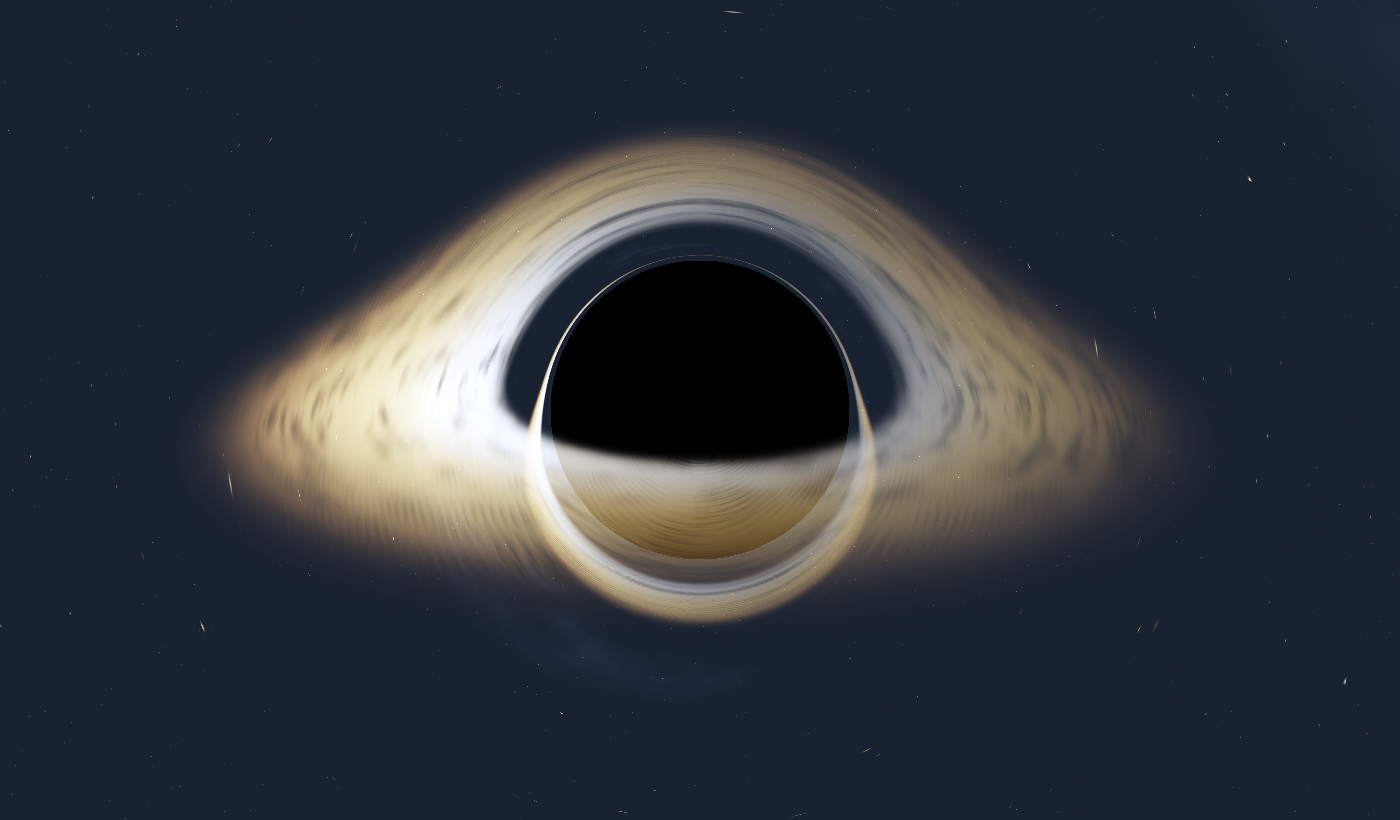
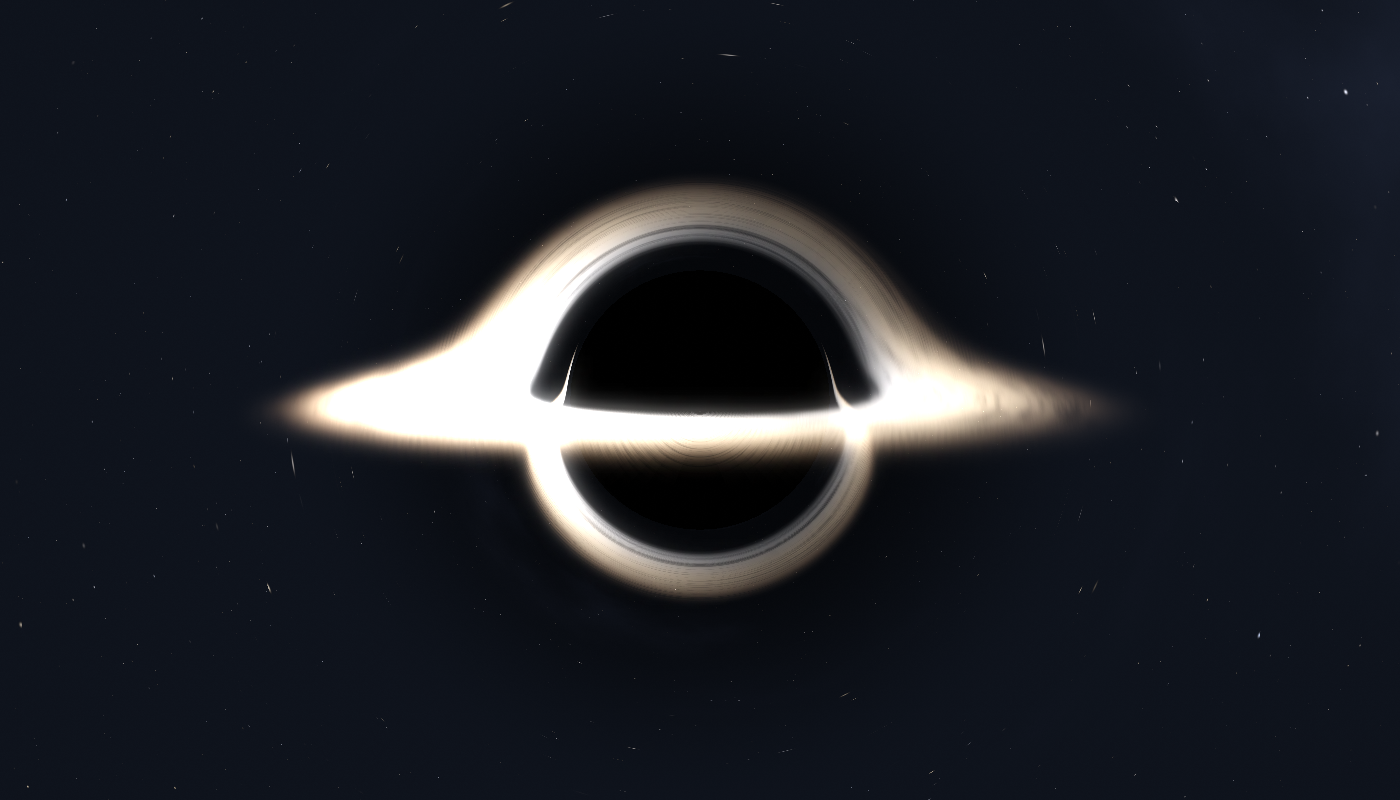
Add bloom, and make the hole read on light backgrounds
The disk is emissive and additive, so on a white desktop it added nothing and
disappeared, leaving an unconvincing black ball with a dull ring. Two changes:

Background light skimming the hole is now dimmed toward the shadow, giving the
disk something to be bright against. Lensing actually conserves surface
brightness, so this is a deliberate cheat, and it shares the warp's falloff so
both reach zero together rather than leaving a circular seam.

The disk also gets a real bloom pass. Emission is written to a second render
target so the glow is fed by the disk alone - an earlier single-target version
bloomed bright desktop content too, which haloed the whole screen white. Bright
pass and separable blur run at quarter resolution; the halo carries zero alpha
so it adds light over the desktop instead of occluding it.

Also thins the disk, flattens the inclination and cools the palette toward a
white-hot core with a copper rim. Full chain measures 14.9 ms/frame at
3024x1964, against 14.7 before.

diff --git a/EventHorizon/OverlayView.swift b/EventHorizon/OverlayView.swift
@@ -41,7 +41,18 @@ private struct Uniforms {
     var mixRight: Float = 1
 }
 
+private struct PostU {
+    var dstSize = SIMD2<Float>(1, 1)
+    var dir = SIMD2<Float>(0, 0)
+    var strength: Float = 0
+    var threshold: Float = 0
+    var pad0: Float = 0
+    var pad1: Float = 0
+}
+
 private let BC: Float = 2.598076   // photon capture impact parameter / rs
+/// Bloom runs at a quarter of the drawable's linear size.
+private let bloomDiv = 4
 
 final class OverlayView: NSView {
 
@@ -53,8 +64,15 @@ final class OverlayView: NSView {
     private let device = MTLCreateSystemDefaultDevice()
     private var queue: MTLCommandQueue?
     private var pipeline: MTLRenderPipelineState?
+    private var brightPipe: MTLRenderPipelineState?
+    private var blurPipe: MTLRenderPipelineState?
+    private var compositePipe: MTLRenderPipelineState?
     private var metalLayer: CAMetalLayer?
     private var blank: MTLTexture?
+    private var sceneTex: MTLTexture?
+    private var glowTex: MTLTexture?
+    private var bloomA: MTLTexture?
+    private var bloomB: MTLTexture?
     private var start = CACurrentMediaTime()
 
     override init(frame: NSRect) {
@@ -89,14 +107,24 @@ final class OverlayView: NSView {
             let d = MTLRenderPipelineDescriptor()
             d.vertexFunction = lib.makeFunction(name: "vsMain")
             d.fragmentFunction = lib.makeFunction(name: "fsMain")
-            let att = d.colorAttachments[0]!
-            att.pixelFormat = .bgra8Unorm
-            att.isBlendingEnabled = true          // premultiplied source
-            att.sourceRGBBlendFactor = .one
-            att.sourceAlphaBlendFactor = .one
-            att.destinationRGBBlendFactor = .oneMinusSourceAlpha
-            att.destinationAlphaBlendFactor = .oneMinusSourceAlpha
+            // The scene now renders into a texture rather than straight to the
+            // drawable, so the glow pass has something to read.
+            d.colorAttachments[0].pixelFormat = .bgra8Unorm
+            d.colorAttachments[1].pixelFormat = .bgra8Unorm   // glow source only
             pipeline = try device.makeRenderPipelineState(descriptor: d)
+
+            for (name, slot) in [("fsBright", 0), ("fsBlur", 1), ("fsComposite", 2)] {
+                let pp = MTLRenderPipelineDescriptor()
+                pp.vertexFunction = lib.makeFunction(name: "vsPost")
+                pp.fragmentFunction = lib.makeFunction(name: name)
+                pp.colorAttachments[0].pixelFormat = .bgra8Unorm
+                let st = try device.makeRenderPipelineState(descriptor: pp)
+                switch slot {
+                case 0: brightPipe = st
+                case 1: blurPipe = st
+                default: compositePipe = st
+                }
+            }
         } catch {
             NSLog("EventHorizon: shader build failed: \(error)")
         }
@@ -118,6 +146,24 @@ final class OverlayView: NSView {
         l.contentsScale = s
         guard bounds.width > 0, bounds.height > 0 else { return }
         l.drawableSize = CGSize(width: bounds.width * s, height: bounds.height * s)
+        allocateTargets(Int(l.drawableSize.width), Int(l.drawableSize.height))
+    }
+
+    private func allocateTargets(_ w: Int, _ h: Int) {
+        guard let device, w > 0, h > 0 else { return }
+        if sceneTex?.width == w && sceneTex?.height == h { return }
+
+        func make(_ tw: Int, _ th: Int) -> MTLTexture? {
+            let d = MTLTextureDescriptor.texture2DDescriptor(
+                pixelFormat: .bgra8Unorm, width: max(tw, 1), height: max(th, 1), mipmapped: false)
+            d.usage = [.renderTarget, .shaderRead]
+            d.storageMode = .private
+            return device.makeTexture(descriptor: d)
+        }
+        sceneTex = make(w, h)
+        glowTex = make(w, h)
+        bloomA = make(w / bloomDiv, h / bloomDiv)
+        bloomB = make(w / bloomDiv, h / bloomDiv)
     }
 
     func resetClock() { start = CACurrentMediaTime() }
@@ -155,7 +201,7 @@ final class OverlayView: NSView {
         let shadowPx = max(Float(arc.holePoints) * scale, 2)
         u.pxPerUnit = shadowPx * u.camDist / BC
         u.warpReach = max(Float(arc.warpPoints) * scale, shadowPx * 1.5)
-        u.incl = 0.155 + 0.10 * sin(t * 0.047 + 0.9)
+        u.incl = 0.105 + 0.065 * sin(t * 0.047 + 0.9)
         u.roll = 0.30 * sin(t * 0.020 + phase)
         u.fade = arc.fade
         u.swirl = arc.swirl
@@ -167,18 +213,68 @@ final class OverlayView: NSView {
         u.mixLeft = haveDesktop ? arc.mixLeft : 0
         u.mixRight = haveDesktop ? arc.mixRight : 0
 
-        let pass = MTLRenderPassDescriptor()
-        pass.colorAttachments[0].texture = drawable.texture
-        pass.colorAttachments[0].loadAction = .clear
-        pass.colorAttachments[0].storeAction = .store
-        pass.colorAttachments[0].clearColor = MTLClearColorMake(0, 0, 0, 0)
+        allocateTargets(Int(l.drawableSize.width), Int(l.drawableSize.height))
+        guard let sceneTex, let glowTex, let bloomA, let bloomB,
+              let brightPipe, let blurPipe, let compositePipe else { return }
 
-        guard let enc = cb.makeRenderCommandEncoder(descriptor: pass) else { return }
-        enc.setRenderPipelineState(pipeline)
-        enc.setFragmentBytes(&u, length: MemoryLayout<Uniforms>.stride, index: 0)
-        enc.setFragmentTexture(tex ?? blank, index: 0)
-        enc.drawPrimitives(type: .triangle, vertexStart: 0, vertexCount: 3)
-        enc.endEncoding()
+        func pass(_ target: MTLTexture, _ state: MTLRenderPipelineState,
+                  second: MTLTexture? = nil,
+                  _ body: (MTLRenderCommandEncoder) -> Void) {
+            let rp = MTLRenderPassDescriptor()
+            rp.colorAttachments[0].texture = target
+            rp.colorAttachments[0].loadAction = .clear
+            rp.colorAttachments[0].storeAction = .store
+            rp.colorAttachments[0].clearColor = MTLClearColorMake(0, 0, 0, 0)
+            if let second {
+                rp.colorAttachments[1].texture = second
+                rp.colorAttachments[1].loadAction = .clear
+                rp.colorAttachments[1].storeAction = .store
+                rp.colorAttachments[1].clearColor = MTLClearColorMake(0, 0, 0, 0)
+            }
+            guard let enc = cb.makeRenderCommandEncoder(descriptor: rp) else { return }
+            enc.setRenderPipelineState(state)
+            body(enc)
+            enc.drawPrimitives(type: .triangle, vertexStart: 0, vertexCount: 3)
+            enc.endEncoding()
+        }
+
+        // 1. The scene, plus the disk's emission on its own target.
+        pass(sceneTex, pipeline, second: glowTex) { enc in
+            enc.setFragmentBytes(&u, length: MemoryLayout<Uniforms>.stride, index: 0)
+            enc.setFragmentTexture(tex ?? self.blank, index: 0)
+        }
+
+        let bw = Float(bloomA.width), bh = Float(bloomA.height)
+        var post = PostU()
+        post.dstSize = SIMD2(bw, bh)
+        post.threshold = 0.30
+
+        // 2. Bright pass over the emission alone, so a white desktop never glows.
+        pass(bloomA, brightPipe) { enc in
+            enc.setFragmentBytes(&post, length: MemoryLayout<PostU>.stride, index: 0)
+            enc.setFragmentTexture(glowTex, index: 0)
+        }
+        // 3-4. Separable Gaussian.
+        var hor = post; hor.dir = SIMD2(1.6, 0)
+        pass(bloomB, blurPipe) { enc in
+            enc.setFragmentBytes(&hor, length: MemoryLayout<PostU>.stride, index: 0)
+            enc.setFragmentTexture(bloomA, index: 0)
+        }
+        var ver = post; ver.dir = SIMD2(0, 1.6)
+        pass(bloomA, blurPipe) { enc in
+            enc.setFragmentBytes(&ver, length: MemoryLayout<PostU>.stride, index: 0)
+            enc.setFragmentTexture(bloomB, index: 0)
+        }
+
+        // 5. Scene plus halo, to the drawable.
+        var comp = PostU()
+        comp.dstSize = SIMD2(dw, dh)
+        comp.strength = 1.7
+        pass(drawable.texture, compositePipe) { enc in
+            enc.setFragmentBytes(&comp, length: MemoryLayout<PostU>.stride, index: 0)
+            enc.setFragmentTexture(sceneTex, index: 0)
+            enc.setFragmentTexture(bloomA, index: 1)
+        }
 
         cb.present(drawable)
         cb.commit()

diff --git a/EventHorizon/Shaders.swift b/EventHorizon/Shaders.swift
@@ -92,10 +92,10 @@ static inline float diskTurb(float r, float a, float z,
 
 // Warm blackbody ramp: cool red at the rim, white hot at the inner edge.
 static inline float3 diskColor(float t) {
-    float3 c = mix(float3(0.30, 0.045, 0.008), float3(1.0, 0.30, 0.035),
+    float3 c = mix(float3(0.26, 0.085, 0.035), float3(0.95, 0.44, 0.17),
                    smoothstep(0.00, 0.38, t));
-    c = mix(c, float3(1.0, 0.72, 0.34), smoothstep(0.34, 0.68, t));
-    c = mix(c, float3(1.0, 0.96, 0.90), smoothstep(0.66, 1.0, t));
+    c = mix(c, float3(1.0, 0.82, 0.62), smoothstep(0.34, 0.68, t));
+    c = mix(c, float3(1.0, 0.98, 0.98), smoothstep(0.66, 1.0, t));
     return c;
 }
 
@@ -117,8 +117,8 @@ static inline float3 starfield(float3 d) {
         }
     }
     float n = fbm(d * 2.6 + 11.0);
-    col += pow(max(n - 0.54, 0.0), 2.0) * float3(0.10, 0.15, 0.34) * 1.9;
-    col += float3(0.010, 0.019, 0.042);          // faint ambient, not flat black
+    col += pow(max(n - 0.54, 0.0), 2.0) * float3(0.10, 0.15, 0.34) * 1.1;
+    col += float3(0.0030, 0.0055, 0.0130);       // faint ambient, not flat black
     return col * 0.6;
 }
 
@@ -132,7 +132,12 @@ static inline float3 aces(float3 x) {
     return saturate((x * (2.51 * x + 0.03)) / (x * (2.43 * x + 0.59) + 0.14));
 }
 
-fragment float4 fsMain(VOut vin [[stage_in]],
+struct FragOut {
+    float4 scene [[color(0)]];
+    float4 glow  [[color(1)]];
+};
+
+fragment FragOut fsMain(VOut vin [[stage_in]],
                        constant Uniforms &U [[buffer(0)]],
                        texture2d<float> screenTex [[texture(0)]]) {
     constexpr sampler smp(filter::linear, address::clamp_to_edge, coord::normalized);
@@ -150,6 +155,12 @@ fragment float4 fsMain(VOut vin [[stage_in]],
     // image. That is what makes it a three dimensional object crossing the
     // screen - the disk turns, foreshortens, and the Doppler-bright side swaps
     // - instead of a rigid picture sliding across.
+    // Distance-based falloff, shared by the warp and the dimming below. Both
+    // must reach zero together or the overlay ends on a visible circular seam.
+    float rpx   = distance(capPx, U.holeCap);
+    float tt    = rpx / max(U.warpReach, 1.0);
+    float taper = exp(-2.6 * tt * tt * tt);
+
     float2 centrePx = U.capSize * 0.5;
     float2 uv     = float2(capPx.x - centrePx.x, centrePx.y - capPx.y) / U.pxPerUnit;
     float2 holeUV = float2(U.holeCap.x - centrePx.x, centrePx.y - U.holeCap.y) / U.pxPerUnit;
@@ -223,7 +234,7 @@ fragment float4 fsMain(VOut vin [[stage_in]],
         // A thin plane crossing is what made it read as a flat painted ring.
         if (r > DISK_IN && r < DISK_OUT) {
             float hgt = abs(dot(p, N));
-            float hh  = 0.06 + 0.032 * r;          // flares outward
+            float hh  = 0.045 + 0.022 * r;          // flares outward
             if (hgt < hh) {
                 float q    = hgt / hh;
                 float vert = exp(-3.0 * q * q);
@@ -315,6 +326,11 @@ fragment float4 fsMain(VOut vin [[stage_in]],
         float3 sky = enc(starfield(lastDir));
         float3 desktop = screenTex.sample(smp, srcCapPx / U.capSize).rgb;
         bg = mix(sky, desktop, onScreen * dmix);
+        // Light that skims the hole is dimmed toward the shadow. Lensing really
+        // conserves surface brightness, so this is a deliberate cheat: the disk
+        // is emissive and additive, and against a white desktop it would add
+        // nothing and vanish. This gives it something to be bright against.
+        bg *= mix(1.0, 0.34, taper * (1.0 - smoothstep(BC * 1.05, BC * 3.0, b)));
     }
 
     float3 emit = enc(aces(acc * U.exposure));
@@ -332,6 +348,77 @@ fragment float4 fsMain(VOut vin [[stage_in]],
     a = saturate(a) * U.fade;
 
     col += (hash21(fragPx + fract(U.time) * 91.7) - 0.5) * 0.006;
-    return float4(max(col, 0.0) * a, a);   // premultiplied
+
+    FragOut o;
+    o.scene = float4(max(col, 0.0) * a, a);           // premultiplied
+    // Zero alpha: the halo is additive light over whatever is behind, and must
+    // not darken or occlude the desktop the way an alpha-carrying layer would.
+    o.glow = float4(emit * U.fade, 0.0);
+    return o;
+}
+
+// ---------------------------------------------------------------- bloom
+// The disk is the only thing bright enough to glow, and a real glow is what
+// separates this from a flat render. Bright-pass and blur run at quarter
+// resolution; everything stays premultiplied so the halo composites correctly
+// over the desktop.
+
+struct PostU {
+    float2 dstSize;
+    float2 dir;          // blur step, in destination pixels
+    float  strength;
+    float  threshold;
+    float  pad0;
+    float  pad1;
+};
+
+struct PostOut {
+    float4 pos [[position]];
+};
+
+vertex PostOut vsPost(uint vid [[vertex_id]]) {
+    float2 p[3] = { float2(-1.0, -3.0), float2(-1.0, 1.0), float2(3.0, 1.0) };
+    PostOut o;
+    o.pos = float4(p[vid], 0.0, 1.0);
+    return o;
+}
+
+fragment float4 fsBright(PostOut vin [[stage_in]],
+                         constant PostU &P [[buffer(0)]],
+                         texture2d<float> src [[texture(0)]]) {
+    constexpr sampler smp(filter::linear, address::clamp_to_edge, coord::normalized);
+    float2 uv = vin.pos.xy / P.dstSize;
+    float4 c = src.sample(smp, uv);
+    float lum = dot(c.rgb, float3(0.299, 0.587, 0.114));
+    float k = max(lum - P.threshold, 0.0) / max(lum, 1e-4);
+    return c * k;
+}
+
+fragment float4 fsBlur(PostOut vin [[stage_in]],
+                       constant PostU &P [[buffer(0)]],
+                       texture2d<float> src [[texture(0)]]) {
+    constexpr sampler smp(filter::linear, address::clamp_to_edge, coord::normalized);
+    float2 uv = vin.pos.xy / P.dstSize;
+    float2 d = P.dir / P.dstSize;
+    const float w[5] = { 0.227027, 0.194595, 0.121622, 0.054054, 0.016216 };
+    float4 sum = src.sample(smp, uv) * w[0];
+    for (int i = 1; i < 5; i++) {
+        sum += src.sample(smp, uv + d * float(i)) * w[i];
+        sum += src.sample(smp, uv - d * float(i)) * w[i];
+    }
+    return sum;
+}
+
+fragment float4 fsComposite(PostOut vin [[stage_in]],
+                            constant PostU &P [[buffer(0)]],
+                            texture2d<float> scene [[texture(0)]],
+                            texture2d<float> bloom [[texture(1)]]) {
+    constexpr sampler smp(filter::linear, address::clamp_to_edge, coord::normalized);
+    float2 uv = vin.pos.xy / P.dstSize;
+    float4 s = scene.sample(smp, uv);
+    float4 b = bloom.sample(smp, uv) * P.strength;
+    // Both are premultiplied, so the sum is too. The halo also carries alpha,
+    // or it would be invisible where the overlay is otherwise transparent.
+    return float4(saturate(s.rgb + b.rgb), saturate(s.a + b.a));
 }
 """

diff --git a/EventHorizon/README.md b/EventHorizon/README.md
@@ -124,6 +124,14 @@ levels out of 255; translating a sprite would give exactly zero.
 
 ![The same moment with the hole at three screen positions](../docs/parallax.png)
 
+**It reads on any background.** The disk is emissive and additive, so against a
+white desktop it added nothing and simply vanished, leaving a black ball. Two
+things fix that: background light skimming the hole is dimmed toward the shadow
+(a deliberate cheat — lensing really conserves surface brightness), and the disk
+gets a real bloom pass. The glow is rendered to its own target via MRT so it
+comes only from the disk's emission; bright desktop content must never glow.
+Bright-pass and blur run at quarter resolution and cost about 0.2 ms.
+
 Two more things keep it from being a screen-wide mush:
 
 **The warp is local.** Gravitational lensing falls off as 1/b, which would visibly

diff --git a/README.md b/README.md
@@ -50,6 +50,8 @@ byte-identical. They differ by 17–24 levels out of 255.
   redshift, and an `r^-3/4` temperature profile driving a blackbody ramp
 - Turbulence that mixes a sheared layer with a solid-body one, so the gas forms
   filaments without winding into concentric rings
+- A bloom pass fed from a separate emission target, so the disk glows but bright
+  desktop content never does
 
 ## Building
 
